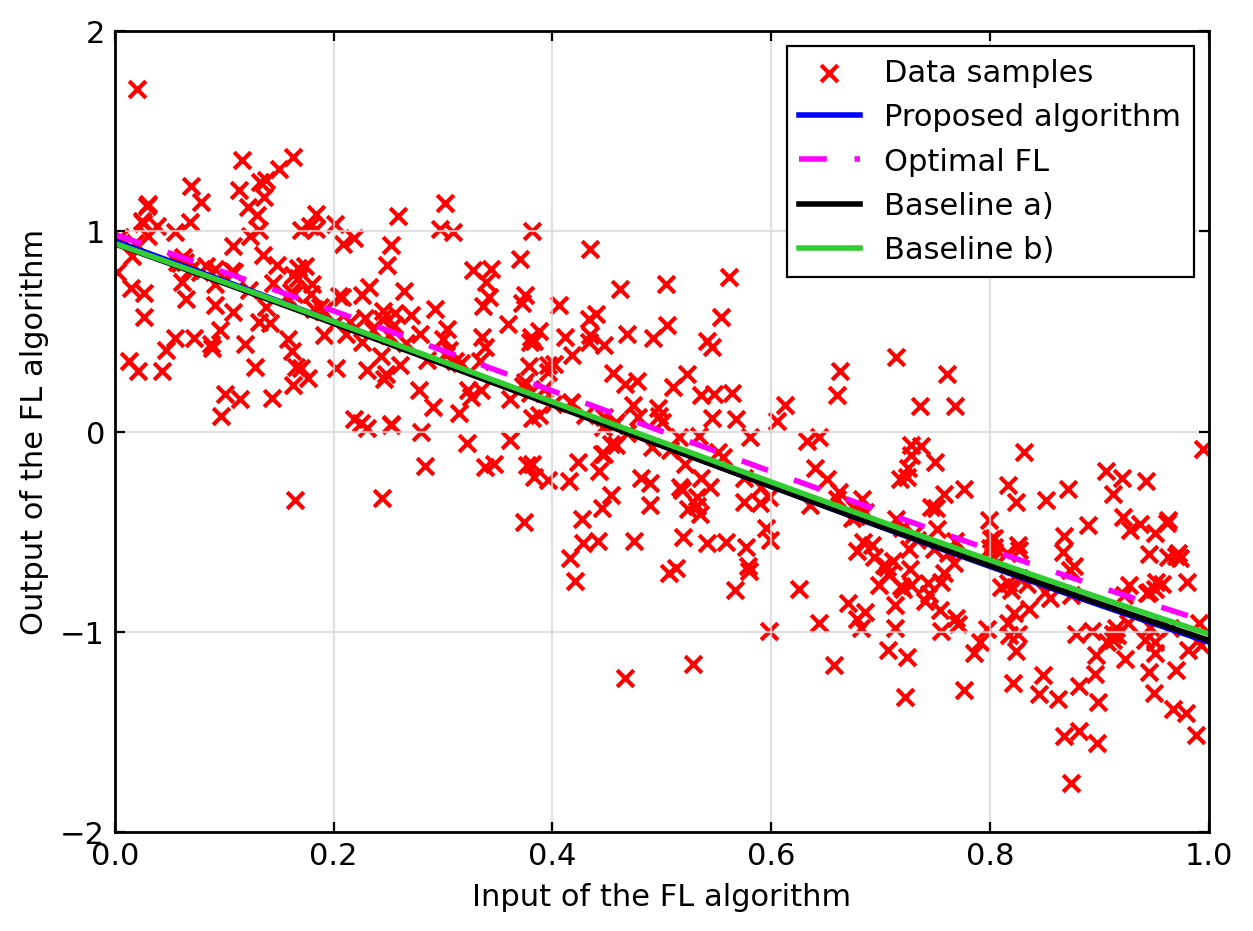
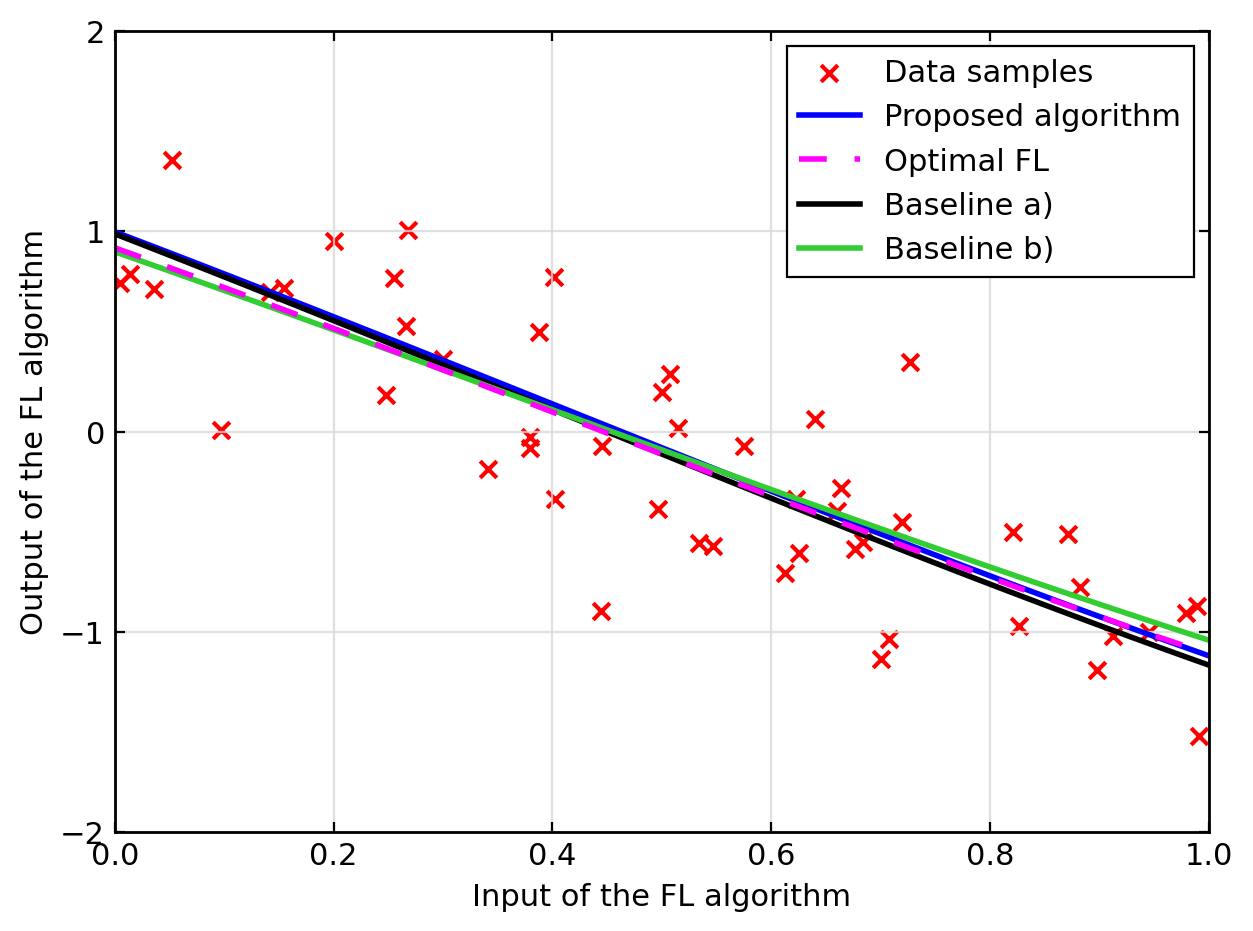
Add sweep config for figure parameters

diff --git a/main.py b/main.py
@@ -1162,6 +1162,11 @@ def load_yaml(path=None):
             "regression_lr": 0.08,
             "mnist_lr": 0.08,
         },
+        "figures": {
+            "figure_3": {
+                "data_count": 50,
+            },
+        },
     }
     if path is None:
         return config
@@ -1180,12 +1185,17 @@ def load_yaml(path=None):
 
 
 # figures
-def figure_3(plot=False, seed=7):
-    data = generate_synthetic_data(num_users=15, samples_per_user=[4] * 5 + [3] * 10, seed=seed)
+def figure_3(plot=False, seed=7, config=None):
+    cfg = load_yaml() if config is None else config
+    data_count = int(cfg.get("figures", {}).get("figure_3", {}).get("data_count", 50))
+    base_count = data_count // 15
+    remainder = data_count % 15
+    samples_per_user = [base_count + (1 if user_idx < remainder else 0) for user_idx in range(15)]
+    data = generate_synthetic_data(num_users=15, samples_per_user=samples_per_user, seed=seed)
     test_data = TensorDataset(data["x"], data["y"])
     result = {}
     for name, runner in {"proposed": proposed_algorithm, "baseline_a": baseline_a, "baseline_b": baseline_b}.items():
-        output = runner(data["users"], RegressionFNN, task="regression", test_data=test_data, rounds=80, num_rbs=12, seed=seed)
+        output = runner(data["users"], RegressionFNN, task="regression", test_data=test_data, rounds=80, num_rbs=12, seed=seed, config=config)
         result[name] = {"loss": output["metrics"]["loss"][-1], "selected": len(output["selected_users"]), "model_state": output["model_state"]}
 
     ideal = RegressionFNN()
@@ -1231,20 +1241,20 @@ def figure_3(plot=False, seed=7):
     return result
 
 
-def figure_4(plot=False, seed=7):
+def figure_4(plot=False, seed=7, config=None):
     sample_counts = [10, 20, 30, 40, 50]
     curves = {"proposed": [], "baseline_a": [], "baseline_b": []}
     for count in sample_counts:
         data = generate_synthetic_data(num_users=15, samples_per_user=count, seed=seed)
         test_data = TensorDataset(data["x"], data["y"])
         curves["proposed"].append(
-            proposed_algorithm(data["users"], RegressionFNN, task="regression", test_data=test_data, rounds=60, num_rbs=12, seed=seed)["metrics"]["loss"][-1]
+            proposed_algorithm(data["users"], RegressionFNN, task="regression", test_data=test_data, rounds=60, num_rbs=12, seed=seed, config=config)["metrics"]["loss"][-1]
         )
         curves["baseline_a"].append(
-            baseline_a(data["users"], RegressionFNN, task="regression", test_data=test_data, rounds=60, num_rbs=12, seed=seed)["metrics"]["loss"][-1]
+            baseline_a(data["users"], RegressionFNN, task="regression", test_data=test_data, rounds=60, num_rbs=12, seed=seed, config=config)["metrics"]["loss"][-1]
         )
         curves["baseline_b"].append(
-            baseline_b(data["users"], RegressionFNN, task="regression", test_data=test_data, rounds=60, num_rbs=12, seed=seed)["metrics"]["loss"][-1]
+            baseline_b(data["users"], RegressionFNN, task="regression", test_data=test_data, rounds=60, num_rbs=12, seed=seed, config=config)["metrics"]["loss"][-1]
         )
     result = {"samples_per_user": sample_counts, "loss": curves}
     if plot:
@@ -1265,14 +1275,14 @@ def figure_4(plot=False, seed=7):
     return result
 
 
-def figure_5(plot=False, seed=7):
+def figure_5(plot=False, seed=7, config=None):
     users = [3, 6, 10, 15, 20, 25]
     curves = {10: [], 15: []}
     timings = {10: [], 15: []}
     for rb_count in curves:
         for user_count in users:
             started = time.perf_counter()
-            output = proposed_algorithm(num_users=user_count, num_rbs=rb_count, seed=seed)
+            output = proposed_algorithm(num_users=user_count, num_rbs=rb_count, seed=seed, config=config)
             timings[rb_count].append(time.perf_counter() - started)
             curves[rb_count].append(output["solver_iterations"])
     result = {"users": users, "edge_weight_evaluations": curves, "seconds": timings}
@@ -1288,12 +1298,12 @@ def figure_5(plot=False, seed=7):
     return result
 
 
-def figure_6(plot=False, seed=7):
+def figure_6(plot=False, seed=7, config=None):
     users = [3, 6, 9, 12, 15, 18]
     theoretical = []
     simulated = []
     for user_count in users:
-        output = proposed_algorithm(num_users=user_count, num_rbs=12, seed=seed)
+        output = proposed_algorithm(num_users=user_count, num_rbs=12, seed=seed, config=config)
         counts = output["counts"]
         selected = set(output["selected_users"].tolist())
         miss_terms = []
@@ -1327,11 +1337,11 @@ def figure_6(plot=False, seed=7):
     return result
 
 
-def figure_7(plot=False, seed=7, rounds=130):
+def figure_7(plot=False, seed=7, rounds=130, config=None):
     data = load_mnist_data(num_users=15, samples_per_user=[240, 200, 160, 80, 40] * 3, test_samples=1000, seed=seed)
     curves = {}
     for name, runner in {"proposed": proposed_algorithm, "baseline_a": baseline_a, "baseline_b": baseline_b, "baseline_c": baseline_c}.items():
-        output = runner(data["users"], MNISTFNN, task="mnist", test_data=data["test"], rounds=rounds, num_rbs=12, seed=seed, batch_size=32)
+        output = runner(data["users"], MNISTFNN, task="mnist", test_data=data["test"], rounds=rounds, num_rbs=12, seed=seed, batch_size=32, config=config)
         curves[name] = output["metrics"]["accuracy"]
     result = {"rounds": list(range(1, rounds + 1)), "accuracy": curves}
     if plot:
@@ -1349,23 +1359,23 @@ def figure_7(plot=False, seed=7, rounds=130):
     return result
 
 
-def figure_8(plot=False, seed=7):
+def figure_8(plot=False, seed=7, config=None):
     user_counts = [3, 6, 9, 12, 15, 18]
     curves = {"proposed": [], "baseline_a": [], "baseline_b": [], "baseline_c": []}
     for user_count in user_counts:
         samples = ([180, 150, 120, 60, 30] * ((user_count + 4) // 5))[:user_count]
         data = load_mnist_data(num_users=user_count, samples_per_user=samples, test_samples=800, seed=seed)
         curves["proposed"].append(
-            proposed_algorithm(data["users"], MNISTFNN, task="mnist", test_data=data["test"], rounds=20, num_rbs=12, seed=seed)["metrics"]["accuracy"][-1]
+            proposed_algorithm(data["users"], MNISTFNN, task="mnist", test_data=data["test"], rounds=20, num_rbs=12, seed=seed, config=config)["metrics"]["accuracy"][-1]
         )
         curves["baseline_a"].append(
-            baseline_a(data["users"], MNISTFNN, task="mnist", test_data=data["test"], rounds=20, num_rbs=12, seed=seed)["metrics"]["accuracy"][-1]
+            baseline_a(data["users"], MNISTFNN, task="mnist", test_data=data["test"], rounds=20, num_rbs=12, seed=seed, config=config)["metrics"]["accuracy"][-1]
         )
         curves["baseline_b"].append(
-            baseline_b(data["users"], MNISTFNN, task="mnist", test_data=data["test"], rounds=20, num_rbs=12, seed=seed)["metrics"]["accuracy"][-1]
+            baseline_b(data["users"], MNISTFNN, task="mnist", test_data=data["test"], rounds=20, num_rbs=12, seed=seed, config=config)["metrics"]["accuracy"][-1]
         )
         curves["baseline_c"].append(
-            baseline_c(data["users"], MNISTFNN, task="mnist", test_data=data["test"], rounds=20, num_rbs=12, seed=seed)["metrics"]["accuracy"][-1]
+            baseline_c(data["users"], MNISTFNN, task="mnist", test_data=data["test"], rounds=20, num_rbs=12, seed=seed, config=config)["metrics"]["accuracy"][-1]
         )
     result = {"users": user_counts, "accuracy": curves}
     if plot:
@@ -1385,22 +1395,22 @@ def figure_8(plot=False, seed=7):
     return result
 
 
-def figure_9(plot=False, seed=7):
+def figure_9(plot=False, seed=7, config=None):
     rb_counts = [3, 6, 9, 12]
     data = load_mnist_data(num_users=15, samples_per_user=[180, 150, 120, 60, 30] * 3, test_samples=800, seed=seed)
     curves = {"proposed": [], "baseline_a": [], "baseline_b": [], "baseline_c": []}
     for rb_count in rb_counts:
         curves["proposed"].append(
-            proposed_algorithm(data["users"], MNISTFNN, task="mnist", test_data=data["test"], rounds=30, num_rbs=rb_count, seed=seed)["metrics"]["accuracy"][-1]
+            proposed_algorithm(data["users"], MNISTFNN, task="mnist", test_data=data["test"], rounds=30, num_rbs=rb_count, seed=seed, config=config)["metrics"]["accuracy"][-1]
         )
         curves["baseline_a"].append(
-            baseline_a(data["users"], MNISTFNN, task="mnist", test_data=data["test"], rounds=30, num_rbs=rb_count, seed=seed)["metrics"]["accuracy"][-1]
+            baseline_a(data["users"], MNISTFNN, task="mnist", test_data=data["test"], rounds=30, num_rbs=rb_count, seed=seed, config=config)["metrics"]["accuracy"][-1]
         )
         curves["baseline_b"].append(
-            baseline_b(data["users"], MNISTFNN, task="mnist", test_data=data["test"], rounds=30, num_rbs=rb_count, seed=seed)["metrics"]["accuracy"][-1]
+            baseline_b(data["users"], MNISTFNN, task="mnist", test_data=data["test"], rounds=30, num_rbs=rb_count, seed=seed, config=config)["metrics"]["accuracy"][-1]
         )
         curves["baseline_c"].append(
-            baseline_c(data["users"], MNISTFNN, task="mnist", test_data=data["test"], rounds=30, num_rbs=rb_count, seed=seed)["metrics"]["accuracy"][-1]
+            baseline_c(data["users"], MNISTFNN, task="mnist", test_data=data["test"], rounds=30, num_rbs=rb_count, seed=seed, config=config)["metrics"]["accuracy"][-1]
         )
     result = {"rbs": rb_counts, "accuracy": curves}
     if plot:
@@ -1420,10 +1430,10 @@ def figure_9(plot=False, seed=7):
     return result
 
 
-def figure_10(plot=False, seed=7):
+def figure_10(plot=False, seed=7, config=None):
     data = load_mnist_data(num_users=15, samples_per_user=300, test_samples=36, seed=seed)
-    proposed = proposed_algorithm(data["users"], MNISTCNN, task="mnist", test_data=data["test"], rounds=8, num_rbs=12, seed=seed, batch_size=32)
-    baseline = baseline_b(data["users"], MNISTCNN, task="mnist", test_data=data["test"], rounds=8, num_rbs=12, seed=seed, batch_size=32)
+    proposed = proposed_algorithm(data["users"], MNISTCNN, task="mnist", test_data=data["test"], rounds=8, num_rbs=12, seed=seed, batch_size=32, config=config)
+    baseline = baseline_b(data["users"], MNISTCNN, task="mnist", test_data=data["test"], rounds=8, num_rbs=12, seed=seed, batch_size=32, config=config)
     result = {
         "proposed_accuracy": proposed["metrics"]["accuracy"][-1],
         "baseline_b_accuracy": baseline["metrics"]["accuracy"][-1],
@@ -1497,7 +1507,7 @@ def main():
     if should_save:
         output_dir.mkdir(parents=True, exist_ok=True)
     for name, func in selected.items():
-        result = func(plot=args.plot or should_save, seed=args.seed)
+        result = func(plot=args.plot or should_save, seed=args.seed, config=config)
         if "figure" in result and should_save:
             fig = result["figure"]
             for ax in fig.axes:

diff --git a/AGENTS.md b/AGENTS.md
@@ -11,6 +11,7 @@ Figures are validators, not the implementation target.
 2. 구현 시 blueprints/* 에 정의된 파일과 함수 외 추가적으로 다른 전역변수, 함수, 파일을 생성하지 않는다. 만약 추가가 불가피하다면 사용자와 토론을 진행한 후 승낙을 받고 추가한다.
 3. outputs 폴더 아래에 결과 그래프들을 저장한다. 결과 그래프의 스타일은 논문과 동일하게 한다.
 4. git으로 형상을 관리한다.
+5. 논문에 기재되지 않아 스스로 찾아야 하는 파라미터는 configs 폴더 아래 yaml 파일로 정의하고 sweep할 수 있어야 한다.
 
 ## BAN
 
